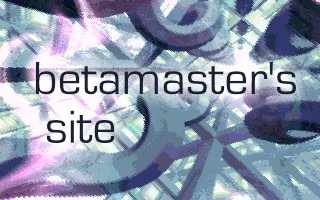
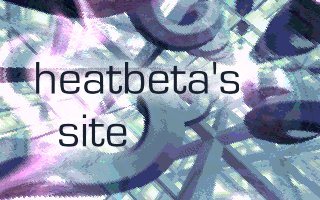
wars

diff --git a/stepmania/crap1.html b/stepmania/crap1.html
@@ -39,8 +39,7 @@
           </ul><br>
           </div>
           <br>
-          <b style="font-size:20px; ">Click the banner to download</b>
-          
+          <b style="font-size:20px">Click the banner to download</b>
           
       </div>
       <div id="footer">